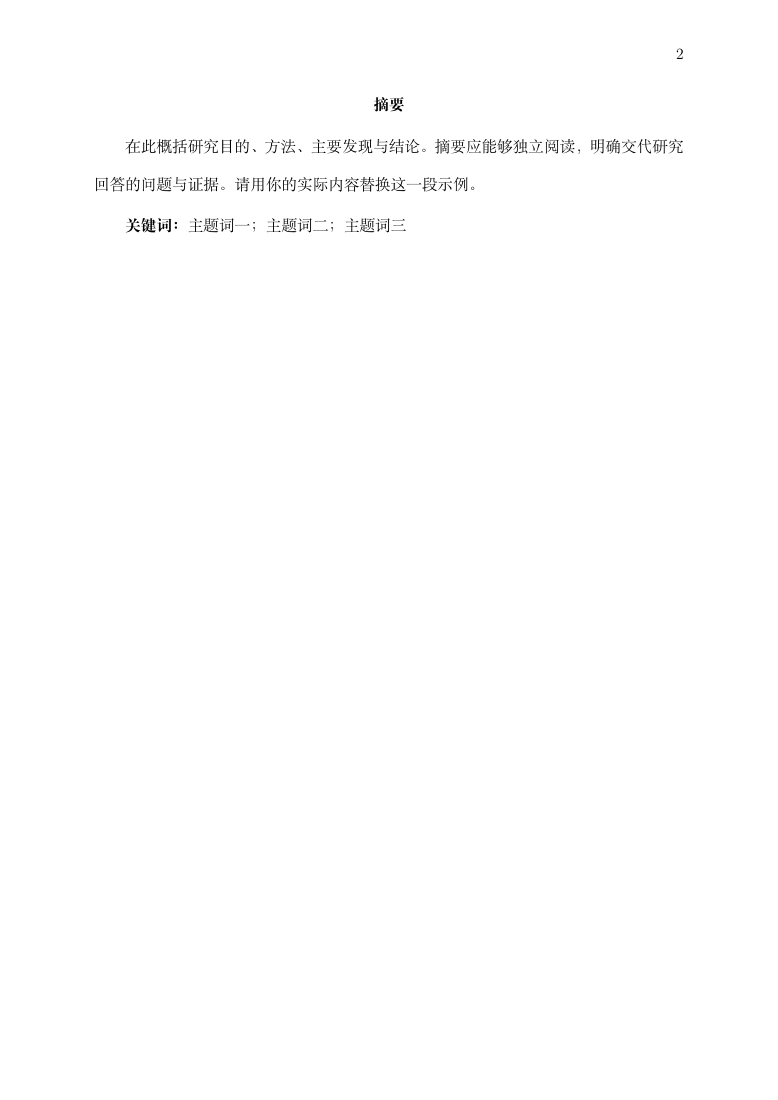
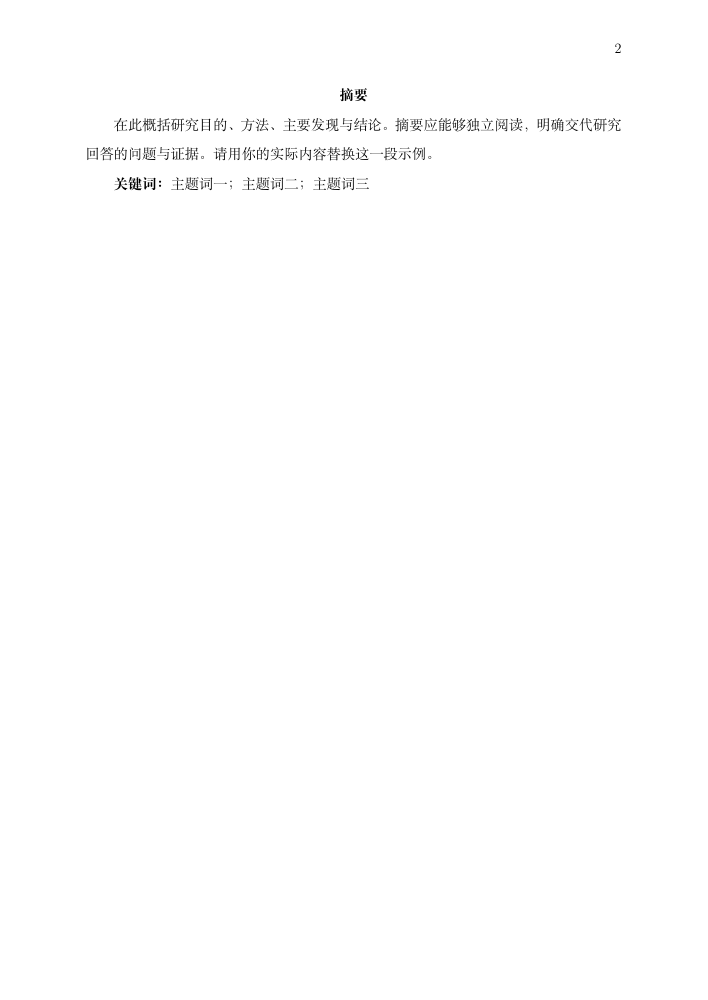
Focus on template integration and tighten manuscript spacing

Changed region(s): [[0.1243, 0.093, 0.8701, 0.217]]

diff --git a/_extensions/gbt7714-paper/paper.css b/_extensions/gbt7714-paper/paper.css
@@ -4,7 +4,8 @@ body {
 }
 #quarto-content { max-width: 960px; margin-inline: auto; }
 main { font-size: 12pt; line-height: 1.5; }
-main:has(.paper-manuscript) { line-height: 2; }
+main:has(.paper-manuscript) { line-height: 2.083333; }
+.paper-manuscript p { margin-block: 0; text-indent: 2em; }
 main:has(.paper-journal) { font-size: 10.5pt; line-height: 1.35; }
 #title-block-header { margin-bottom: 1.5rem; }
 #title-block-header .title { font-size: 1.85rem; line-height: 1.25; }

diff --git a/tools/make_paper_reference.py b/tools/make_paper_reference.py
@@ -58,7 +58,7 @@ for name in ('ManuscriptTitle', 'ManuscriptAuthor', 'ManuscriptHeading', 'Manusc
     child(style, 'name', val=name)
     child(style, 'basedOn', val='BodyText')
     props = child(style, 'pPr')
-    child(props, 'spacing', before=0, after=0, line=480, lineRule='auto')
+    child(props, 'spacing', before=0, after=0, line=500, lineRule='exact')
     child(props, 'ind', firstLine=0)
     child(props, 'widowControl')
     run = child(style, 'rPr')
@@ -71,6 +71,8 @@ for name in ('ManuscriptTitle', 'ManuscriptAuthor', 'ManuscriptHeading', 'Manusc
         child(props, 'keepNext')
         child(props, 'spacing', before=1440 if name == 'ManuscriptTitle' else 0, after=240)
     if name == 'ManuscriptBody':
+        # Preserve 25pt text spacing while allowing tall display equations.
+        child(props, 'spacing', line=500, lineRule='atLeast')
         child(props, 'ind', firstLine=480)
 
 files['word/styles.xml'] = ET.tostring(styles, encoding='utf-8', xml_declaration=True)

diff --git a/README.md b/README.md
@@ -1,22 +1,19 @@
 # quarto-gbt7714
 
-面向中文学术写作的 Quarto 扩展：提供 **GB/T 7714—2025 引用与参考文献适配**，以及学生作业、投稿初稿和双栏文章模板，同一份源文件可以输出 Word、PDF 和 HTML。
+**为中文学术写作的 Quarto 模板提供可复用的 GB/T 7714—2025 引用与参考文献接口。** 如果你正在维护某个学校的学位论文模板，或将现有 LaTeX 模板接入 Quarto，可以复用这里的 Lua filter 和 CSL，在自己的封面、章节与排版配置中加入中文引用支持。
+
+本库也附带单栏稿件、双栏文章和课程作业示例，可以直接开始写作，输出 Word、PDF 或 HTML。
 
 ## 为什么做这个项目
 
-这个项目的灵感来自 [apaquarto](https://github.com/wjschne/apaquarto)。它把 APA 写作格式接入 Quarto，让作者可以在同一个写作流程中生成不同格式的文档。我也希望中文写作能有类似的体验：写正文、管理文献，再按需要输出文件。
+灵感来自 [apaquarto](https://github.com/wjschne/apaquarto)：希望中文学术写作也能方便地接入 Quarto。这里把引用处理做成独立扩展，让不同学校和期刊的模板能够复用，并提供完整写作示例作为接入起点。
 
-在尝试把这个流程用于中文学术写作时，我没有找到能直接满足自己设想的组合：中文引用格式、多种输出，以及方便其他模板接入的 Quarto 接口。因此做了这个库，希望把 GB/T 7714 的引用规则接到 Quarto 的 Lua／CSL 工作流中，并提供几套可以直接开始写的模板。
+引用实现参考 [gbt7714-bibtex-style](https://github.com/zepinglee/gbt7714-bibtex-style)，CSL 源自 [zotero-chinese/styles](https://github.com/zotero-chinese/styles)。
 
-引用实现参考了 [zepinglee/gbt7714-bibtex-style](https://github.com/zepinglee/gbt7714-bibtex-style)，CSL 源自 [zotero-chinese/styles](https://github.com/zotero-chinese/styles)。现有中文参考文献工具是这个项目的基础；本库重点处理它们在 Quarto 多格式写作中的衔接。
+## 如何使用
 
-## 可以用来做什么
-
-- **学生作业**：课程论文、读书报告等，填好姓名、学号、课程信息后即可开始写，最后提交 Word 或 PDF。
-- **论文写作与投稿**：用单栏稿件与导师、合作者交流，也可以输出双栏 journal 风格的 PDF。考虑到投稿时可能需要 Word，而不能直接提交 PDF 或 LaTeX，本库同时保留可编辑的 Word 输出；实际版式仍需按目标期刊要求调整。
-- **学校或期刊模板的引用适配**：例如 [ECNU 学位论文模板](https://github.com/sy5938/ecnu_thesis_markdown_template) 这样的项目，可以接入独立的 Lua filter 和 CSL，让引用处理沿用 Quarto 的 citeproc 流程。模板作者可以继续维护自己的封面、章节与页面布局，复用这里的中文引用功能。
-
-仓库提供两部分：`gbt7714` 是可独立使用的引用扩展；`gbt7714-paper` 是调用它的写作排版扩展。学生、作者和模板维护者可以按需要选择。
+- **维护学校或期刊模板**：接入 `gbt7714` 引用扩展，保留自己的版式。配置见[模板适配指南](docs/citations.md)。
+- **直接写作**：使用 `gbt7714-paper` 附带的单栏或双栏模板，按实际提交要求调整。配置见[写作指南](docs/writing.md)。
 
 ## 当前状态与反馈
 
@@ -55,7 +52,7 @@
 <details>
 <summary>投稿初稿预览</summary>
 
-投稿版借鉴 APA 稿件的页面组织：独立标题页 → 独立摘要与关键词页 → 正文新页（重复论文标题），参考文献也另起一页。正文 12pt；PDF 设为 `linestretch: 2`，Word 使用双倍行距。引用格式仍为 GB/T，完整排版参数见[写作指南](docs/writing.md#字号与行距)。
+投稿版借鉴 APA 稿件的页面组织：独立标题页 → 独立摘要与关键词页 → 正文新页（重复论文标题），参考文献也另起一页。正文 12pt，PDF 与 Word 使用 25pt 正文行距。引用格式仍为 GB/T，完整排版参数见[写作指南](docs/writing.md#字号与行距)。
 
 | 标题页 | 摘要页 | 正文首页 |
 |---|---|---|
@@ -72,6 +69,19 @@
 
 ## 快速开始
 
+### 接入现有模板
+
+运行 `quarto add lukezed/quarto-gbt7714`，再添加：
+
+```yaml
+lang: zh
+bibliography: refs.bib
+filters: [gbt7714]
+gbt7714: authoryear  # 也支持 numeric、note
+```
+
+### 直接使用写作模板
+
 安装 [Quarto](https://quarto.org/docs/get-started/) 与 Python 3。PDF 另需含 `ctex` 和 Fandol 字体的 TeX Live／TinyTeX。
 
 ```bash
@@ -83,17 +93,6 @@ quarto render
 ```
 
 将 `manuscript` 换成 `student` 或 `journal` 即可选择其他模板。修改 `paper.qmd` 和 `refs.bib` 后渲染，结果在 `_output/`；匿名版运行 `quarto render --profile blind`，结果在 `_output-blind/`。匿名开关隐藏作者元数据和标记区块，正文与图片里的身份线索仍需自行检查。
-
-### 已有 Quarto 项目
-
-运行 `quarto add lukezed/quarto-gbt7714`，再添加：
-
-```yaml
-lang: zh
-bibliography: refs.bib
-filters: [gbt7714]
-gbt7714: authoryear  # 也支持 numeric、note
-```
 
 ## 详细文档
 

diff --git a/docs/writing.md b/docs/writing.md
@@ -16,7 +16,7 @@
 | 模板 | 使用场景 | PDF / HTML | Word |
 |---|---|---|---|
 | `student` | 课程论文、读书报告、学生作业 | 单栏，包含学号、课程、指导教师 | 可编辑单栏 |
-| `manuscript` | 投稿初稿、导师审阅 | 独立标题页、摘要页、正文；HTML 分区，打印时分页 | 同样分页，正文双倍行距 |
+| `manuscript` | 投稿初稿、导师审阅 | 独立标题页、摘要页、正文；HTML 分区，打印时分页 | 同样分页，正文 25pt 行距 |
 | `journal` | 期刊风格文章、成稿展示 | PDF 双栏；HTML 宽屏双栏、窄屏单栏 | 可编辑单栏 |
 
 源文件分别在 [student](../templates/student/paper.qmd)、[manuscript](../templates/manuscript/paper.qmd)、[journal](../templates/journal/paper.qmd)。先克隆或下载仓库：
@@ -79,17 +79,15 @@ gbt7714: authoryear   # numeric | note 也可
 
 ## 字号与行距
 
-这些是通用写作预设，不代表严格符合 APA、ECNU 或某一期刊的完整版式要求。GB/T 引用适配与正文页面排版是两项独立功能。
+以下是随附写作模板的默认排版参数，可按学校或期刊要求调整。
 
 | 模板 | PDF 正文字号 | PDF 行距配置 | Word 正文 |
 |---|---|---|---|
 | student | 12pt | `linestretch: 1.5` | 12pt、1.5 倍 |
-| manuscript | 12pt | `linestretch: 2` | 12pt、2 倍 |
+| manuscript | 12pt | 固定 25pt | 12pt、25pt（最小值） |
 | journal | 10pt | `linestretch: 1.05` | 12pt、1.5 倍、单栏 |
 
-PDF 的 `linestretch` 是 LaTeX 基础行距的倍率，不能直接当作“字号 × 倍率”，也不能保证与 Word 的同名倍率相等。当前投稿稿 PDF 的 12pt 正文相邻基线约为 29 TeX pt；段间另有 `0.25em` 间距。Word 的倍率由字体和编辑器决定。截图和 PDF 展示的是当前实际效果。
-
-作为比较，[ECNU 模板](https://github.com/sy5938/ecnu_thesis_markdown_template) 在 `_quarto.yml` 选择 12pt，`tex/before-body.tex` 设置 `\baselineskip=25pt`，`tex/preamble.tex` 设置段间距 0、首行缩进 2 字，版心 150 × 230mm；章、节、小节标题用三号、小三、小四黑体。这是该仓库的实现，不能替代学校最新要求。
+投稿稿正文采用 12pt、25pt（最小值） 行距、段间距 0；HTML 使用接近的屏幕阅读行高。不同输出格式的字体和分页仍可能略有差异。
 
 当前 `paper-style` 会设置 PDF 的 `fontsize` 与 `linestretch`；仅在 YAML 覆盖这两项不会生效。需要精确版式时，应修改项目内 `_extensions/gbt7714-paper/layout.lua` 与 `paper.tex`，Word 则修改 `paper-reference.docx` 的对应样式；已有学校模板可以只接入引用扩展。
 
